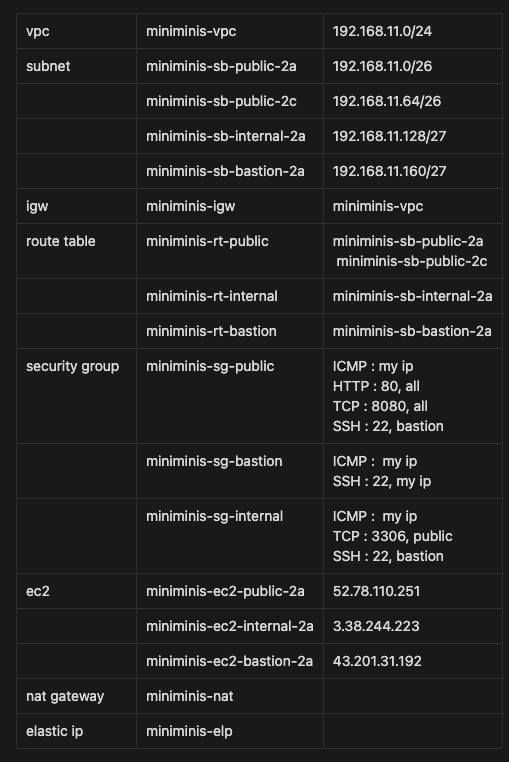
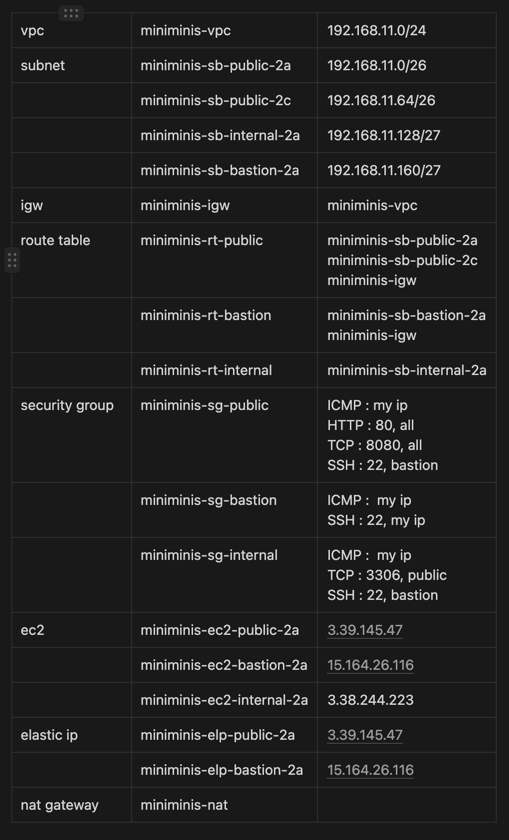
refactor 1단계 보완 - elasic ip 추가

diff --git a/README.md b/README.md
@@ -54,9 +54,10 @@ npm run dev
 
 ![img_1.png](img_1.png)
 
+
 2. 배포한 서비스의 공인 IP(혹은 URL)를 알려주세요
 
-- Public IP : http://52.78.110.251
+- Public IP : 3.39.145.47
 - URL : http://subway.infrastudy.kro.kr
 
 
